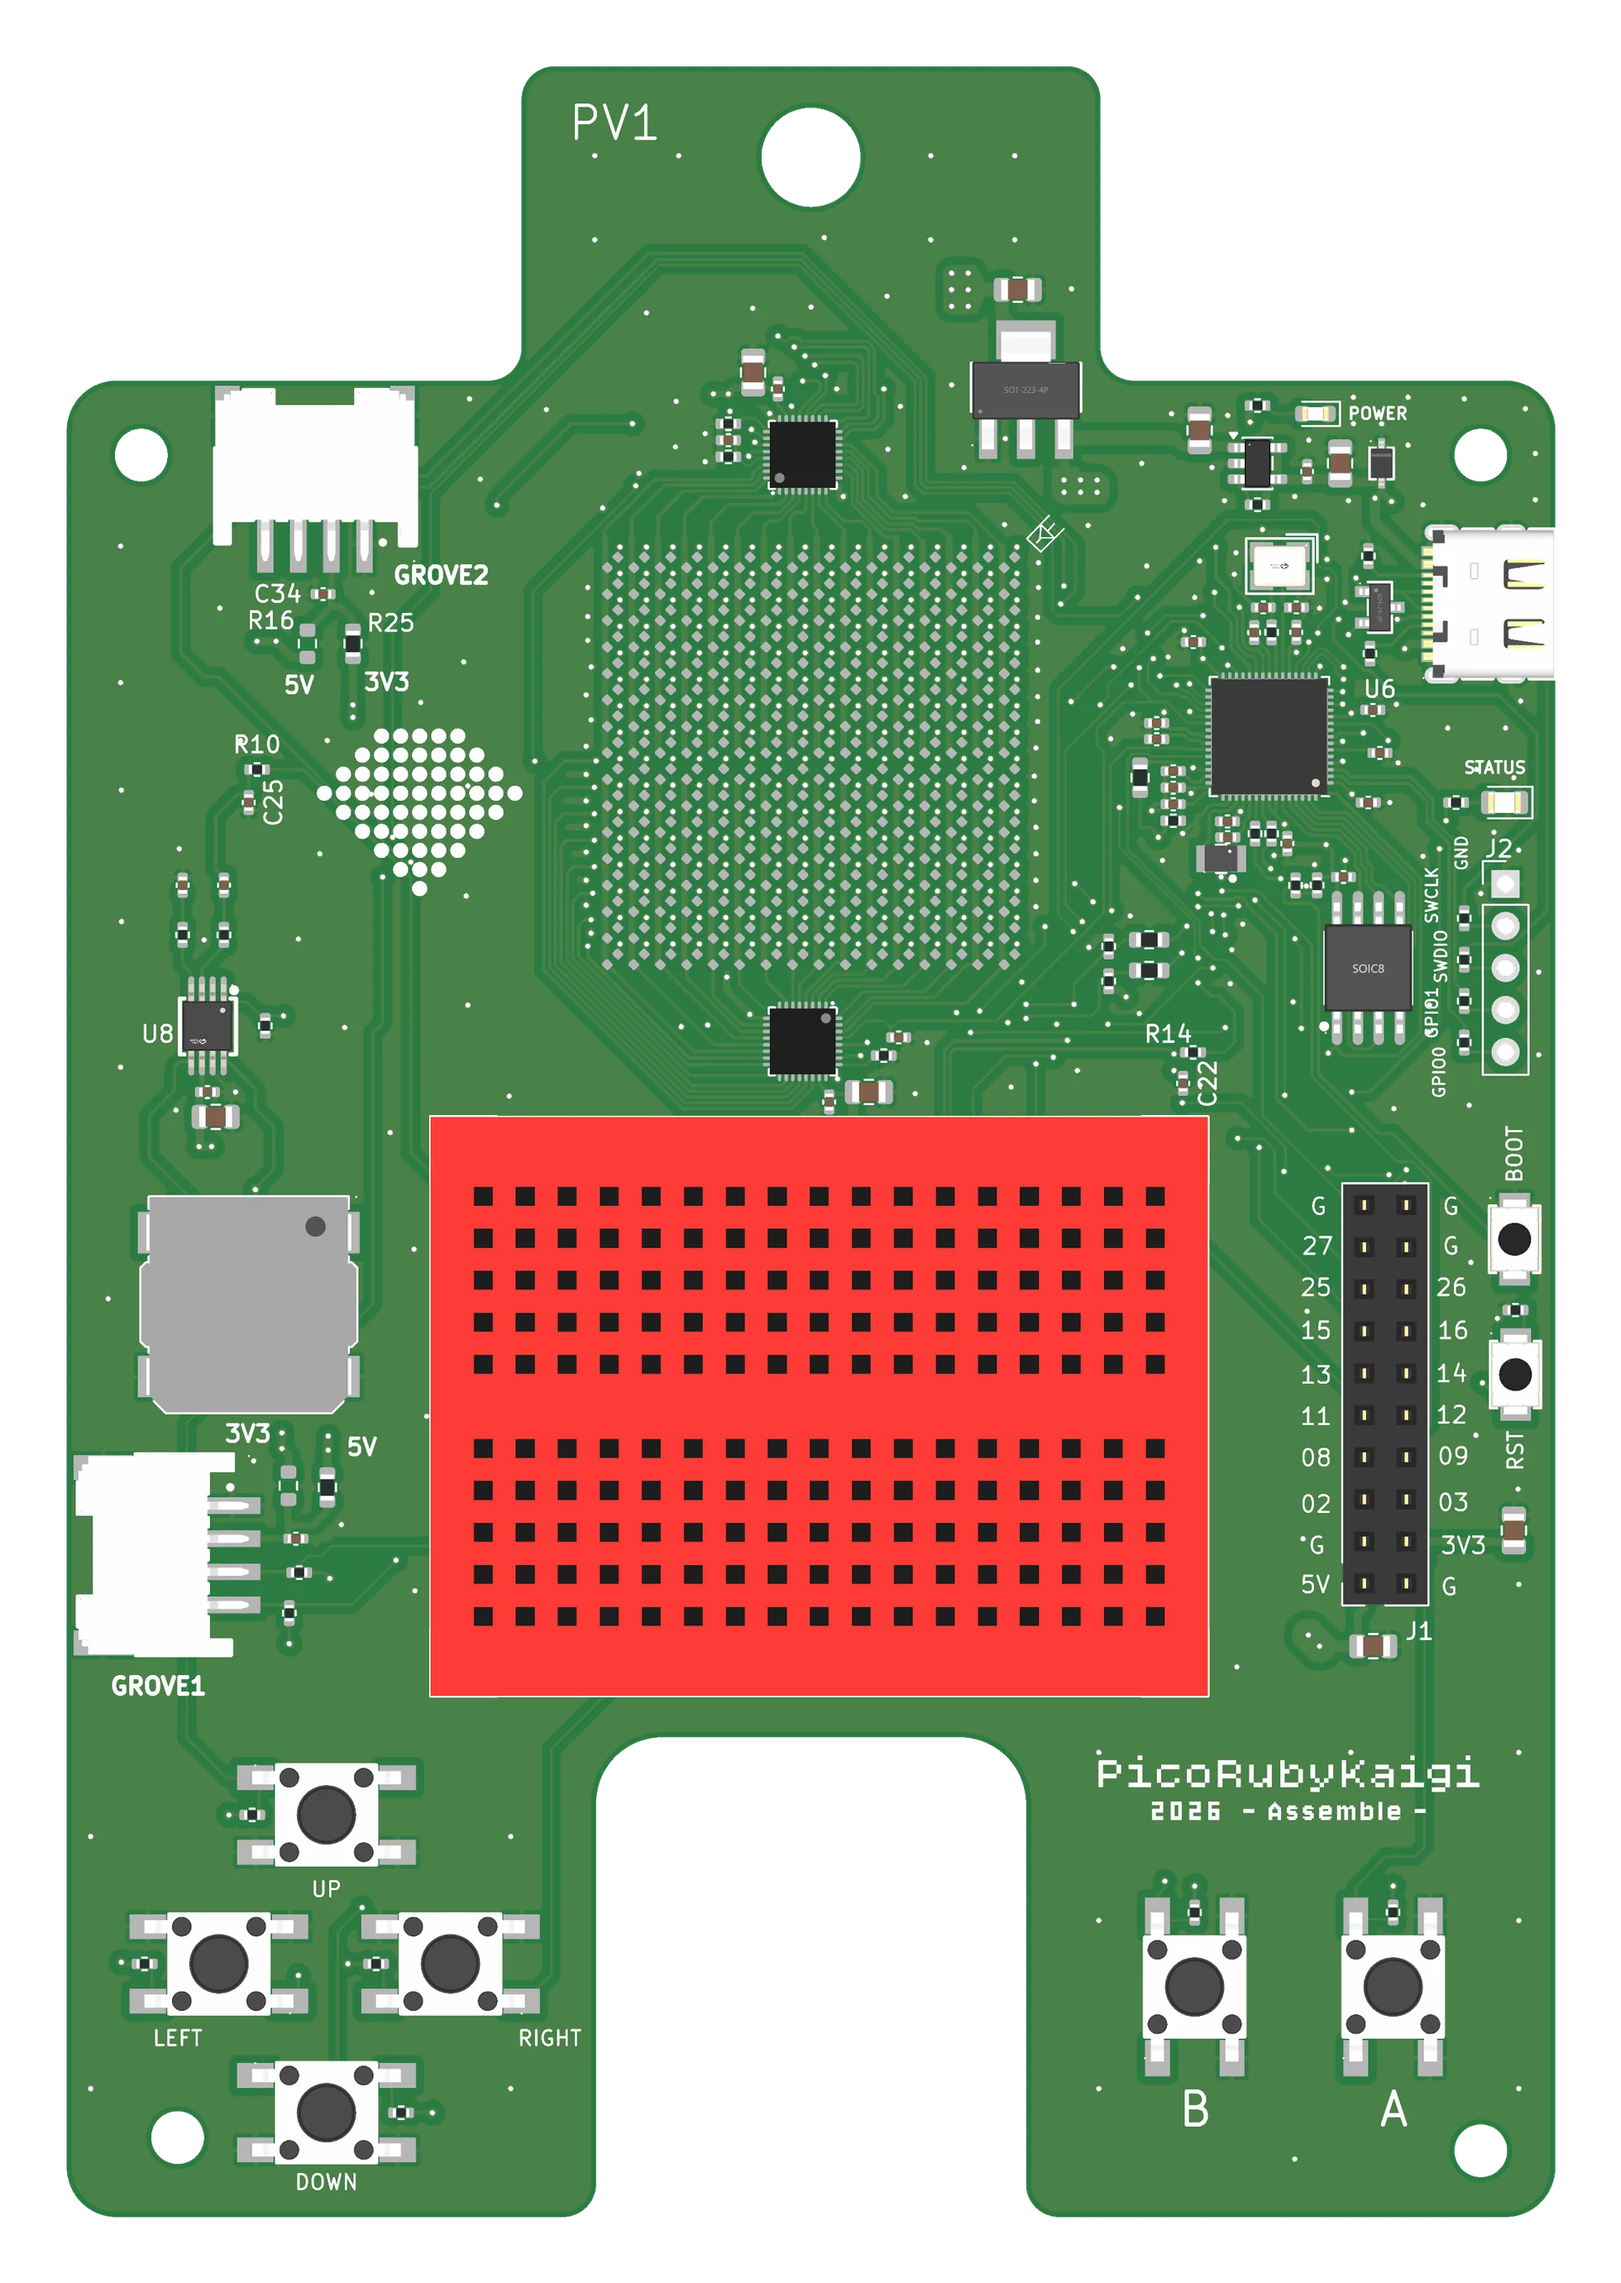
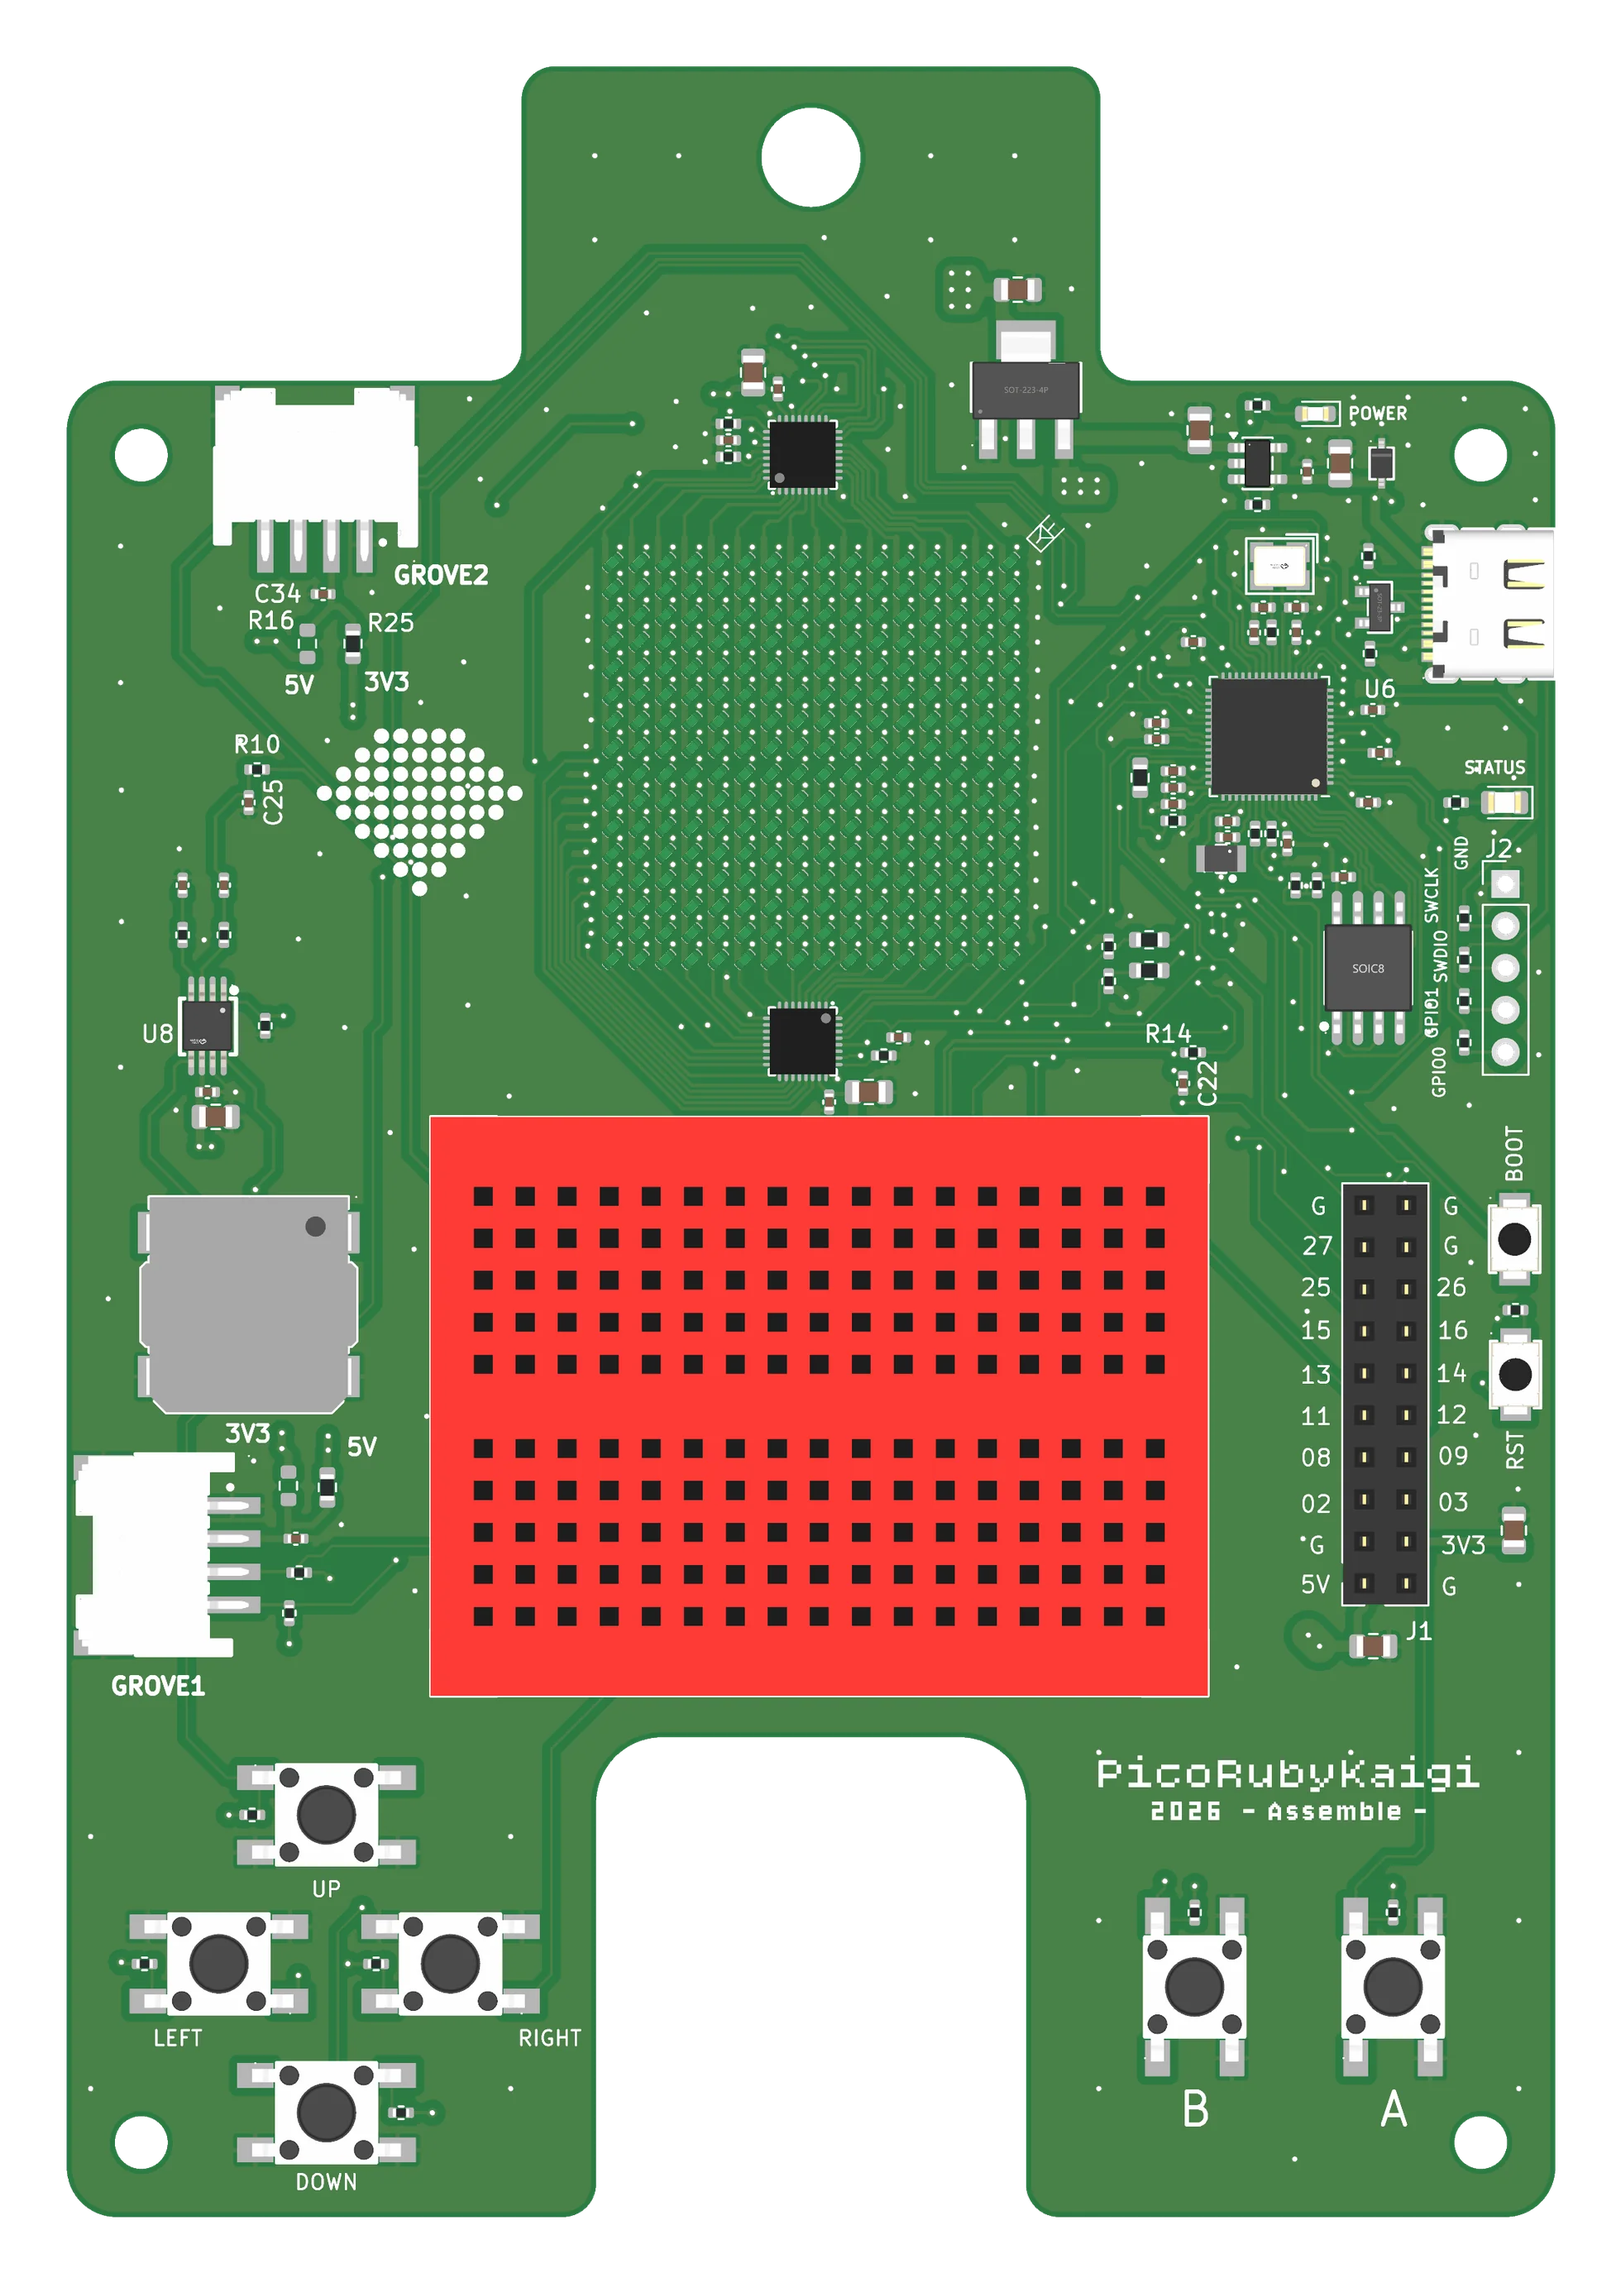
Board picture from the production board, with the matrix LEDs on it
The board repository's V1 drops the "PV1" silk and moves the lower
mounting holes; nothing the layout table reads moved, so only the
picture changes.

The matrix LEDs use the board's own footprint, which names no 3D model,
so the render showed only their pads. The scratch copy now gives them
KiCad's 0402 LED. Its white body under every dot read as lit, so the
bodies are then tinted towards the board around them, keeping their
shading.

diff --git a/tools/board-art/build.py b/tools/board-art/build.py
@@ -100,6 +100,29 @@ def edge_bbox(root):
 
 
 # --- rendering --------------------------------------------------------------
+def add_model(text, footprint, model):
+    """Give every placed footprint of that name a 3D model, by appending one
+    before its closing parenthesis. Footprints sit one tab deep in the board
+    file and close with a line holding a lone tab and ')'."""
+    head = f'\n\t(footprint "{footprint}"'
+    out = []
+    pos = 0
+    count = 0
+    while True:
+        start = text.find(head, pos)
+        if start < 0:
+            break
+        end = text.find("\n\t)\n", start)
+        out.append(text[pos:end])
+        out.append(f'\n\t\t(model "{model}"\n\t\t\t(offset (xyz 0 0 0))\n\t\t\t(scale (xyz 1 1 1))\n\t\t\t(rotate (xyz 0 0 0))\n\t\t)')
+        pos = end
+        count += 1
+    out.append(text[pos:])
+    if count == 0:
+        raise SystemExit(f"no footprint {footprint} to give a model")
+    return "".join(out)
+
+
 def render(board_dir, work, bbox):
     """Render a coloured copy of the board in a scratch project directory, so
     the board's own checkout is only read."""
@@ -120,6 +143,11 @@ def render(board_dir, work, bbox):
     # U1 names its model the KiCad 5 way: through ${KISYS3DMOD}, which 9 no
     # longer sets, and as .wrl, which 9's library ships only as .step.
     text = re.sub(r'\$\{KISYS3DMOD\}/([^"]+)\.wrl"', r'${KICAD9_3DMODEL_DIR}/\1.step"', text)
+    # The matrix LEDs use the board's own footprint, which names no model, so
+    # only their pads would show. It is a standard 0402 with the pads drawn
+    # closer, pin 1 on the left as in KiCad's, so KiCad's model sits right.
+    text = add_model(text, "PicoBoard:LED_0402_Compact_P1.6mm",
+                     "${KICAD9_3DMODEL_DIR}/LED_SMD.3dshapes/LED_0402_1005Metric.step")
     open(f"{work}/board.kicad_pcb", "w").write(text)
 
     # KiCad fits the board into the frame with a margin of its own; render
@@ -157,6 +185,42 @@ def measure(img, bbox):
     col = [alpha.getpixel((w // 2, y)) for y in range(h)]
     top = first(col)
     return scale, left - bbox[0] * scale, top - bbox[1] * scale
+
+
+# --- the matrix LEDs ---------------------------------------------------------
+# KiCad's 0402 LED is a bright white body, and the page lights the dots by
+# drawing over the picture: a white part under every dot reads as lit when it
+# is not. So the bodies are tinted towards the board around them, keeping their
+# shading, that they show as parts and step back. A pixel becomes the board's
+# colour times 0.5 + 2 * LED_TINT * its brightness: dark edges sink below the
+# board, the white top comes out a little above it. Larger shows more of them.
+LED_TINT = 0.35
+LED_RADIUS_MM = 0.65  # covers the 1.0 x 0.5 mm body and its pads, not the vias
+
+
+def tint_matrix_leds(img, fps, origin):
+    leds = [v for k, v in fps.items() if re.fullmatch(r"LED\d+", k)]
+    ox, oy = origin
+    px = img.load()
+    r = LED_RADIUS_MM * PX_PER_MM
+    # The board's colour, from the bare mask between the first two LEDs.
+    a, b = sorted(leds, key=lambda v: (v["y"], v["x"]))[:2]
+    sx = round(((a["x"] + b["x"]) / 2 - ox) * PX_PER_MM)
+    sy = round((a["y"] - oy - 0.6) * PX_PER_MM)
+    base = px[sx, sy][:3]
+    for led in leds:
+        cx, cy = (led["x"] - ox) * PX_PER_MM, (led["y"] - oy) * PX_PER_MM
+        for y in range(int(cy - r), int(cy + r) + 2):
+            for x in range(int(cx - r), int(cx + r) + 2):
+                if (x - cx) ** 2 + (y - cy) ** 2 > r * r:
+                    continue
+                cr, cg, cb, ca = px[x, y]
+                light = (cr + cg + cb) / 765
+                if cg > cr + 25 and cg > cb + 25:
+                    continue  # already green: the mask showing through
+                k = 0.5 + LED_TINT * 2 * light
+                t = [min(255, round(c * k)) for c in base]
+                px[x, y] = (t[0], t[1], t[2], ca)
 
 
 # --- where things are ------------------------------------------------------
@@ -239,11 +303,13 @@ def main():
            round(x0 + (left_mm + size[0]) * scale), round(y0 + (top_mm + size[1]) * scale))
     px = (round(size[0] * PX_PER_MM), round(size[1] * PX_PER_MM))
     img = img.crop(box).resize(px, Image.LANCZOS)
+    fps = footprints(root)
+    tint_matrix_leds(img, fps, (left_mm, top_mm))
 
     os.makedirs(f"{sim_dir}/board", exist_ok=True)
     img.save(f"{sim_dir}/board/board.webp", quality=85, method=6)
     with open(f"{sim_dir}/board_layout.rb", "w") as f:
-        f.write(layout_rb(footprints(root), (left_mm, top_mm), size, px))
+        f.write(layout_rb(fps, (left_mm, top_mm), size, px))
     kb = os.path.getsize(f"{sim_dir}/board/board.webp") // 1024
     print(f"rendered at {scale:.2f} px/mm; wrote sim/board/board.webp ({px[0]}x{px[1]}, {kb} KB) and sim/board_layout.rb")
 
